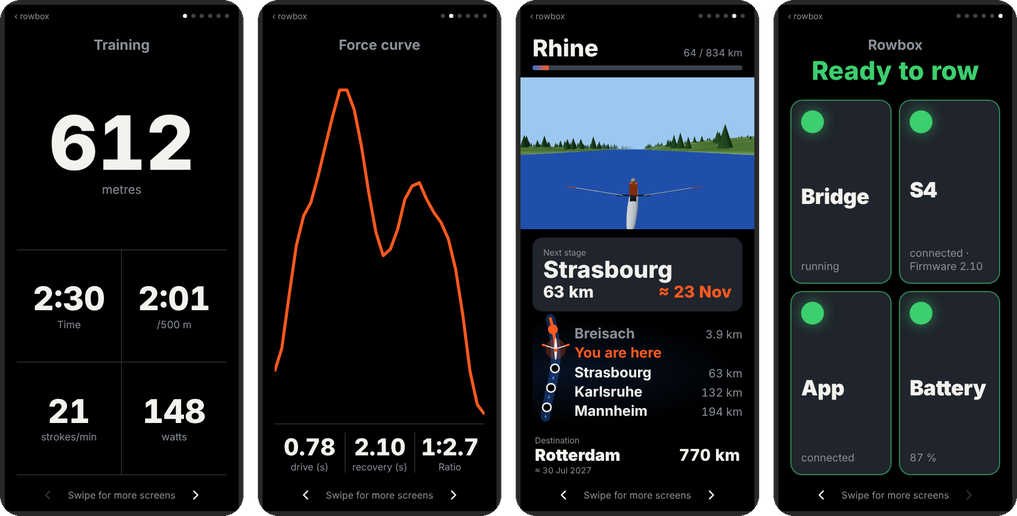
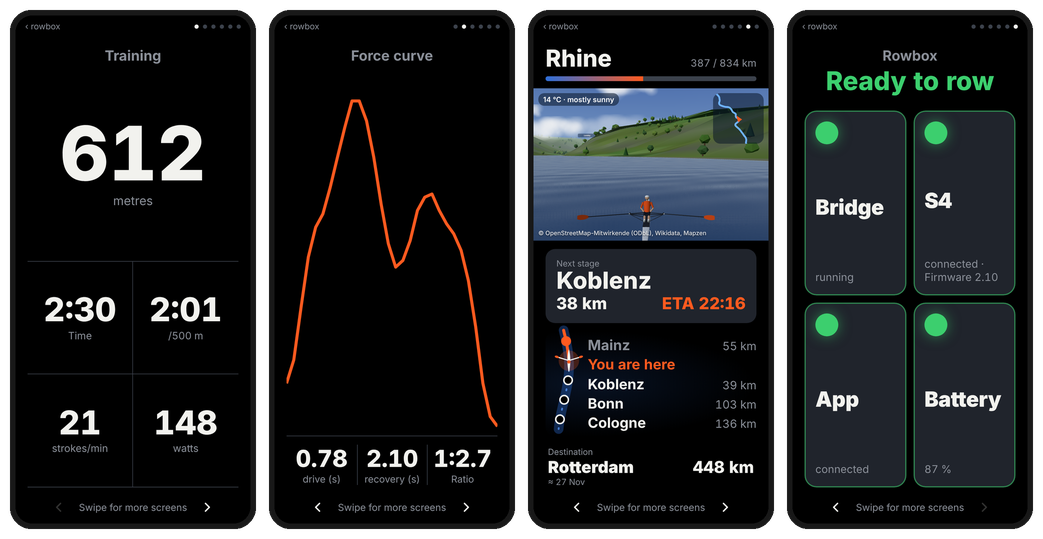
README: 'Row the Rhine in 3D' section with new screenshots
- new section near the top (EN/DE) with a phone screen and four 3D scenes
  (Loreley, Pfalzgrafenstein, Burg Katz in the evening, rain at Burg Rheinstein)
- phone display images regenerated: training, force curve, 3D journey, status
- phone-display and journey bullets link to the new section

diff --git a/README.md b/README.md
@@ -18,6 +18,32 @@ slimmer versions without battery (**Light**) or without display and battery (**U
 </p>
 <p align="center"><sub>The box in its case, and six of its display screens: status, training with pacer, force curve, live flywheel wave, journey and a trophy.</sub></p>
 
+## Row the Rhine in 3D
+
+Every metre on the WaterRower moves you down a real river. On your phone the journey screen shows
+it as a small 3D scene: a single scull on the water, and the rower in it moves with **your**
+strokes. Each drive starts when you take a real catch, legs first, then the body, the boat surging
+with the shape of your force curve. Stop rowing and he waits at the catch.
+
+<p align="center"><img src="docs/rhine_3d_en.jpg" width="900" alt="3D journey on the Rhine: phone screen and four scenes with the Loreley, Pfalzgrafenstein castle, Burg Katz in the evening and rain at Burg Rheinstein"></p>
+
+- **The real Rhine, Basel to Rotterdam (834 km):** the course of the river from OpenStreetMap,
+  real terrain from elevation data (the Middle Rhine valley rises 150–200 m on both banks), 74 real
+  bridges and 242 landmarks with their names: castles from Rheinstein to Stolzenfels, the
+  Pfalzgrafenstein in the middle of the river, cathedrals, churches, towers, the Loreley rock and
+  the windmills of Kinderdijk. A small map shows where you are.
+- **Real light and weather:** the sun stands where it really stands at that place and time, so
+  you row into dusk on a November evening. When the box is online it fetches the current weather
+  at your virtual position: clouds by cover, rain and snow, fog by visibility, wind on the water,
+  and a small label like "9 °C · rain".
+- **Works offline:** the route ships with the box (about 85 KB), no map service needed while you
+  row. Without internet the sky simply stays fair.
+- **Made for the phone:** three.js runs in the phone's browser; the Pi only serves the files.
+  The scene renders only while the journey screen is visible.
+
+Other routes keep a generated river for now; `tools/build_route.py` turns OpenStreetMap data
+into a route file (see [CONTRIBUTING](CONTRIBUTING.md)).
+
 ## Features
 
 - **S4 → Bluetooth FTMS bridge:** distance, stroke rate, stroke count, pace, power, calories, time.
@@ -42,16 +68,12 @@ slimmer versions without battery (**Light**) or without display and battery (**U
   curve of every stroke, drive and recovery time.
 - **Phone as display:** `http://<hostname>.local/display` shows the box's screens full-screen on
   your phone: training, force curve, pacer, live wave, journey and status, switched by swiping left
-  and right. With the Ultralight version this is your display. The journey screen shows a small
-  3D view on top: a single scull whose rower moves in your real stroke rhythm (experimental).
-  On the Rhine the river follows its real course from OpenStreetMap, with the real terrain, bridges
-  and landmarks (castles, cathedrals, the Loreley, windmills) and a small map; other routes use
-  generated scenery. When the box is online it also shows the current weather at your virtual
-  position (clouds, rain, snow, fog, wind on the water). For that the box sends that position, not
-  yours, to [Open-Meteo](https://open-meteo.com) about every 15 minutes; you can switch it off in
-  the settings.
+  and right. With the Ultralight version this is your display. The journey screen shows the
+  [3D river](#row-the-rhine-in-3d). For the weather the box sends your virtual position on the
+  route, not yours, to [Open-Meteo](https://open-meteo.com) about every 15 minutes; you can switch
+  it off in the settings.
 
-  <p align="center"><img src="docs/phone_display_en.png" width="760" alt="Phone as display: training, force curve, pacer and journey screens"></p>
+  <p align="center"><img src="docs/phone_display_en.png" width="760" alt="Phone as display: training, force curve, journey in 3D and status screens"></p>
 
   <p align="center"><img src="docs/portal_en.png" width="760" alt="Web portal on a phone: live view, journey and session analysis"></p>
   <p align="center"><sub>Web portal on a phone: live view, journey and the analysis of one session.</sub></p>
@@ -65,7 +87,7 @@ slimmer versions without battery (**Light**) or without display and battery (**U
 - **Journey and trophies:** every metre you row moves a boat along a real route (English Channel,
   Rhine, Thames, Seine, Po, Nile, Yangtze, Mississippi, Amazon, Murray, the Onyx in Antarctica or
   across the Atlantic), shown like a navigation screen with the next stage, the destination and
-  relaxed arrival estimates. Trophies for things like the first
+  relaxed arrival estimates, and on the phone as a [3D scene](#row-the-rhine-in-3d). Trophies for things like the first
   10 km or an hour in one go appear on the display after a session. No streaks, no deadlines,
   nothing to lose; switch it off in the settings if you like.
 - **Your own set of screens:** in the settings you choose which screens the display button

diff --git a/README.de.md b/README.de.md
@@ -18,6 +18,33 @@ schlanker ohne Akku (**Light**) oder ohne Display und Akku (**Ultralight**).
 </p>
 <p align="center"><sub>Die Box im Gehäuse und sechs ihrer Ansichten: Status, Training mit Taktgeber, Kraftkurve, Live-Kurve vom Paddelrad, Reise und eine Trophäe.</sub></p>
 
+## Den Rhein in 3D rudern
+
+Jeder Meter auf dem WaterRower bringt dich auf einem echten Fluss voran. Auf dem Handy zeigt die
+Reise-Ansicht das als kleine 3D-Szene: einen Einer auf dem Wasser, und der Ruderer darin bewegt sich
+mit **deinen** Schlägen. Jeder Durchzug beginnt mit deinem echten Zuganfang, erst die Beine, dann
+der Oberkörper, und das Boot schiebt nach der Form deiner Kraftkurve. Hörst du auf, wartet er am
+Zuganfang.
+
+<p align="center"><img src="docs/rhine_3d.jpg" width="900" alt="3D-Reise auf dem Rhein: Handyansicht und vier Szenen mit Loreley, Pfalz bei Kaub, Burg Katz am Abend und Regen an Burg Rheinstein"></p>
+
+- **Der echte Rhein, Basel bis Rotterdam (834 km):** der Flussverlauf aus OpenStreetMap, echtes
+  Gelände aus Höhendaten (im Mittelrheintal steigen die Hänge 150–200 m an), 74 echte Brücken und
+  242 Landmarken mit Namen: Burgen von Rheinstein bis Stolzenfels, die Pfalz bei Kaub mitten im
+  Fluss, Dome, Kirchen, Türme, die Loreley und die Windmühlen von Kinderdijk. Eine kleine Karte
+  zeigt, wo du bist.
+- **Echtes Licht und Wetter:** Die Sonne steht dort, wo sie an diesem Ort und zu dieser Zeit
+  wirklich steht, an einem Novemberabend ruderst du also in die Dämmerung. Ist die Box online,
+  holt sie das aktuelle Wetter an deiner virtuellen Position: Wolken nach Bewölkung, Regen und
+  Schnee, Nebel nach Sichtweite, Wind auf dem Wasser und ein kleines Schild wie „9 °C · Regen“.
+- **Läuft offline:** Die Strecke liegt auf der Box (etwa 85 KB), beim Rudern ist kein Kartendienst
+  nötig. Ohne Internet bleibt der Himmel einfach freundlich.
+- **Gemacht fürs Handy:** three.js läuft im Browser des Handys, der Pi liefert nur die Dateien.
+  Die Szene rechnet nur, solange die Reise-Ansicht sichtbar ist.
+
+Andere Strecken zeigen vorerst einen erzeugten Fluss; `tools/build_route.py` macht aus
+OpenStreetMap-Daten eine Streckendatei (siehe [CONTRIBUTING](CONTRIBUTING.md), auf Englisch).
+
 ## Funktionen
 
 - **Brücke S4 → Bluetooth FTMS:** Distanz, Schlagzahl, Schläge, Pace, Leistung, Kalorien, Zeit.
@@ -43,15 +70,11 @@ schlanker ohne Akku (**Light**) oder ohne Display und Akku (**Ultralight**).
 - **Handy als Display:** `http://<hostname>.local/anzeige` zeigt die Ansichten der Box im Vollbild
   auf dem Handy: Training, Kraftkurve, Taktgeber, Live-Kurve, Reise und Status, gewechselt durch
   Wischen nach links und rechts. Bei der Ultralight-Variante ist das dein Display. Die
-  Reise-Ansicht zeigt oben eine kleine 3D-Szene: einen Einer, dessen Ruderer im echten
-  Schlagrhythmus rudert (experimentell). Auf dem Rhein folgt der Fluss seinem echten Verlauf aus
-  OpenStreetMap, mit echtem Gelände, Brücken und Landmarken (Burgen, Dome, Loreley, Windmühlen)
-  und einer kleinen Karte; andere Strecken zeigen eine erzeugte Landschaft. Ist die Box online,
-  zeigt sie dazu das aktuelle Wetter an deiner virtuellen Position (Wolken, Regen, Schnee, Nebel,
-  Wind auf dem Wasser). Dafür schickt die Box diese Position, nicht deine, etwa alle 15 Minuten an
+  Reise-Ansicht zeigt den [Fluss in 3D](#den-rhein-in-3d-rudern). Für das Wetter schickt die Box
+  deine virtuelle Position auf der Strecke, nicht deine, etwa alle 15 Minuten an
   [Open-Meteo](https://open-meteo.com); abschalten kannst du das in den Einstellungen.
 
-  <p align="center"><img src="docs/phone_display.png" width="760" alt="Handy als Display: Training, Kraftkurve, Taktgeber und Reise"></p>
+  <p align="center"><img src="docs/phone_display.png" width="760" alt="Handy als Display: Training, Kraftkurve, Reise in 3D und Status"></p>
 
   <p align="center"><img src="docs/portal.png" width="760" alt="Webportal auf dem Handy: Live-Ansicht, Reise und Auswertung einer Einheit"></p>
   <p align="center"><sub>Webportal auf dem Handy: Live-Ansicht, Reise und die Auswertung einer Einheit.</sub></p>
@@ -67,7 +90,7 @@ schlanker ohne Akku (**Light**) oder ohne Display und Akku (**Ultralight**).
 - **Reise und Trophäen:** Jeder geruderte Meter bringt ein Boot auf einer echten Strecke voran
   (Ärmelkanal, Rhein, Themse, Seine, Po, Nil, Jangtse, Mississippi, Amazonas, Murray, der Onyx in
   der Antarktis oder über den Atlantik), dargestellt wie eine Navigation mit nächster Etappe,
-  Ziel und entspannt geschätzter Ankunft. Trophäen, etwa für die
+  Ziel und entspannt geschätzter Ankunft, auf dem Handy auch als [3D-Szene](#den-rhein-in-3d-rudern). Trophäen, etwa für die
   ersten 10 km oder eine Stunde am Stück, erscheinen nach der Einheit auf dem Display. Keine
   Serien, keine Fristen, nichts geht verloren; in den Einstellungen abschaltbar.
 - **Eigene Auswahl an Ansichten:** In den Einstellungen legst du fest, welche Ansichten die
